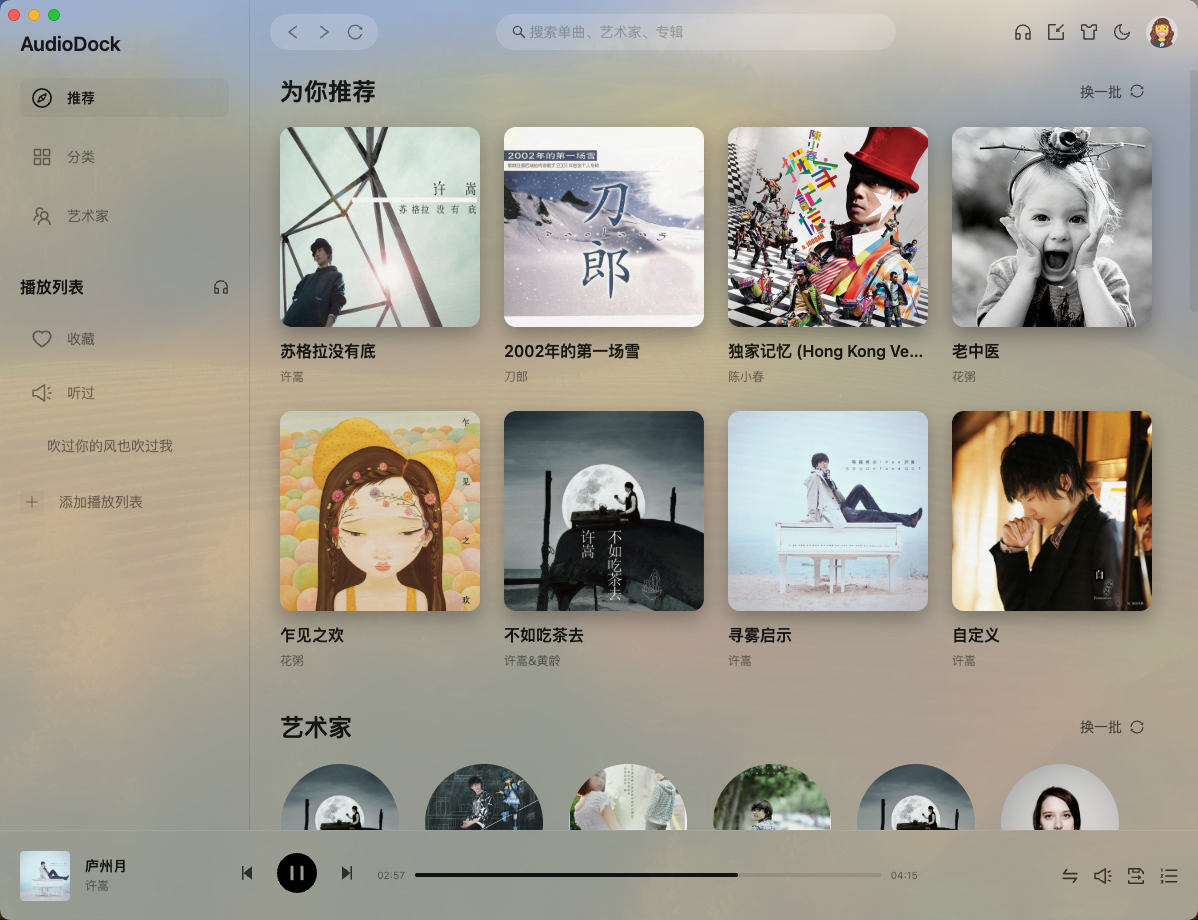
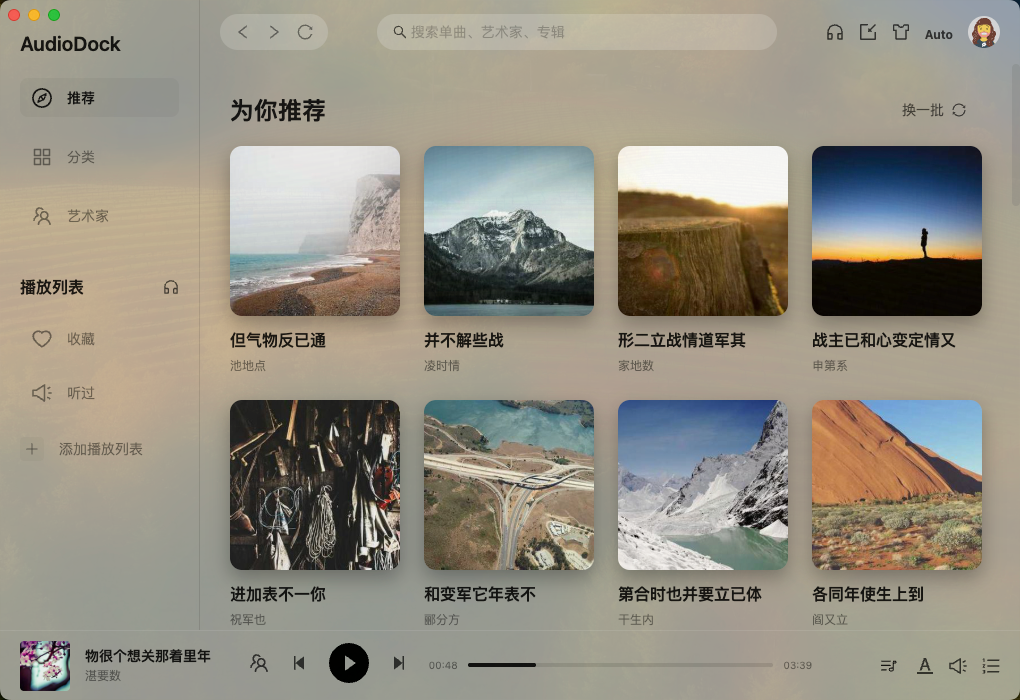
feat: 修改打包内容

diff --git a/apps/desktop/src/pages/Recommended/index.tsx b/apps/desktop/src/pages/Recommended/index.tsx
@@ -71,6 +71,16 @@ const Recommended: React.FC = () => {
     return sectionsToSort;
   };
 
+  const getPageSize = (type: "album" | "artist" | "track") => {
+    const width = window.innerWidth;
+    // Sidebar 200 + Padding 60 (30*2)
+    const availableWidth = width - 200 - 60;
+    // Album/Track: 170 + 24 (gap) = 194
+    // Artist: 110 + 24 (gap) = 134
+    const itemWidth = type === "artist" ? 134 : 194;
+    return Math.max(4, Math.floor(availableWidth / itemWidth));
+  };
+
   const loadSections = async (forceRefresh = false) => {
     try {
       setLoading(true);
@@ -141,14 +151,18 @@ const Recommended: React.FC = () => {
 
       // Fetch from API with playMode as type parameter
       const type = playMode;
+      const albumSize = getPageSize("album");
+      const artistSize = getPageSize("artist");
+      const trackSize = getPageSize("track");
+
       const promises: Promise<any>[] = [
-        getRecommendedAlbums(type),
-        getRecentAlbums(type),
-        getLatestArtists(type),
+        getRecommendedAlbums(type, albumSize),
+        getRecentAlbums(type, albumSize),
+        getLatestArtists(type, artistSize),
       ];
 
       if (playMode === "MUSIC") {
-        promises.push(getLatestTracks("MUSIC"));
+        promises.push(getLatestTracks("MUSIC", trackSize));
       }
 
       const results = await Promise.all(promises);
@@ -208,24 +222,27 @@ const Recommended: React.FC = () => {
       setRefreshing(sectionId);
 
       const type = playMode;
+      const albumSize = getPageSize("album");
+      const artistSize = getPageSize("artist");
+      const trackSize = getPageSize("track");
 
       if (sectionId === "recommended") {
-        const res = await getRecommendedAlbums(type);
+        const res = await getRecommendedAlbums(type, albumSize);
         const data = res.data || [];
         updateSection(sectionId, data);
         cacheUtils.set(getCacheKey(CACHE_KEY_RECOMMENDED), data);
       } else if (sectionId === "recent") {
-        const res = await getRecentAlbums(type);
+        const res = await getRecentAlbums(type, albumSize);
         const data = res.data || [];
         updateSection(sectionId, data);
         cacheUtils.set(getCacheKey(CACHE_KEY_RECENT), data);
       } else if (sectionId === "artists") {
-        const res = await getLatestArtists(type);
+        const res = await getLatestArtists(type, artistSize);
         const data = res.data || [];
         updateSection(sectionId, data);
         cacheUtils.set(getCacheKey(CACHE_KEY_ARTISTS), data);
       } else if (sectionId === "tracks") {
-        const res = await getLatestTracks("MUSIC");
+        const res = await getLatestTracks("MUSIC", trackSize);
         const data = res.data || [];
         updateSection(sectionId, data);
         cacheUtils.set(getCacheKey(CACHE_KEY_TRACKS), data);

diff --git a/apps/desktop/src/services/album.ts b/apps/desktop/src/services/album.ts
@@ -1,9 +1,9 @@
 import request from "../https";
 import type {
-  Album,
-  ILoadMoreData,
-  ISuccessResponse,
-  ITableData,
+    Album,
+    ILoadMoreData,
+    ISuccessResponse,
+    ITableData,
 } from "../models";
 
 export const getAlbumList = () => {
@@ -58,16 +58,16 @@ export const batchDeleteAlbums = (ids: number[]) => {
 };
 
 // Get recommended albums (8 random unlistened albums)
-export const getRecommendedAlbums = (type?: string) => {
+export const getRecommendedAlbums = (type?: string, pageSize?: number) => {
   return request.get<any, ISuccessResponse<Album[]>>("/album/recommend", {
-    params: type ? { type } : undefined,
+    params: { type, pageSize },
   });
 };
 
 // Get recent albums (8 latest albums)
-export const getRecentAlbums = (type?: string) => {
+export const getRecentAlbums = (type?: string, pageSize?: number) => {
   return request.get<any, ISuccessResponse<Album[]>>("/album/latest", {
-    params: type ? { type } : undefined,
+    params: { type, pageSize },
   });
 };
 

diff --git a/apps/desktop/src/services/artist.ts b/apps/desktop/src/services/artist.ts
@@ -1,9 +1,9 @@
 import request from "../https";
 import type {
-  Artist,
-  ILoadMoreData,
-  ISuccessResponse,
-  ITableData,
+    Artist,
+    ILoadMoreData,
+    ISuccessResponse,
+    ITableData,
 } from "../models";
 
 export const getArtistList = (
@@ -73,6 +73,6 @@ export const getArtistById = (id: number) => {
   return request.get<any, ISuccessResponse<Artist>>(`/artist/${id}`);
 };
 
-export const getLatestArtists = (type: string) => {
-  return request.get<any, ISuccessResponse<Artist[]>>("/artist/latest", { params: { type } });
+export const getLatestArtists = (type: string, pageSize?: number) => {
+  return request.get<any, ISuccessResponse<Artist[]>>("/artist/latest", { params: { type, pageSize } });
 };

diff --git a/apps/desktop/src/services/track.ts b/apps/desktop/src/services/track.ts
@@ -1,9 +1,9 @@
 import request from "../https";
 import type {
-  ILoadMoreData,
-  ISuccessResponse,
-  ITableData,
-  Track,
+    ILoadMoreData,
+    ISuccessResponse,
+    ITableData,
+    Track,
 } from "../models";
 
 export const getTrackList = () => {
@@ -56,9 +56,9 @@ export const batchDeleteTracks = (ids: number[]) => {
   );
 };
 
-export const getLatestTracks = (type?: string) => {
+export const getLatestTracks = (type?: string, pageSize?: number) => {
   return request.get<any, ISuccessResponse<Track[]>>("/track/latest", {
-    params: { type },
+    params: { type, pageSize },
   });
 };
 

diff --git a/apps/desktop/src/utils/platform.ts b/apps/desktop/src/utils/platform.ts
@@ -25,6 +25,5 @@ export const isWeb = () => {
 declare global {
   interface Window {
     platform?: string;
-    ipcRenderer?: any;
   }
 }
